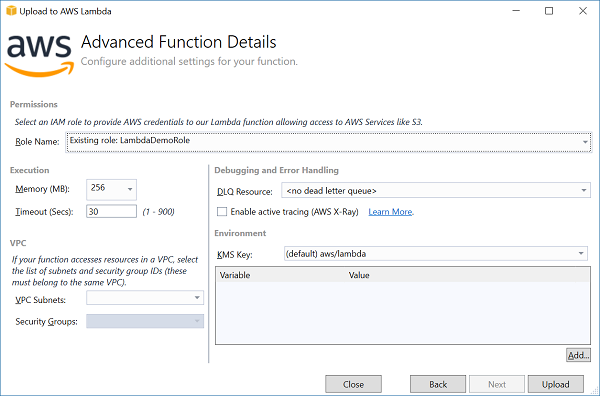
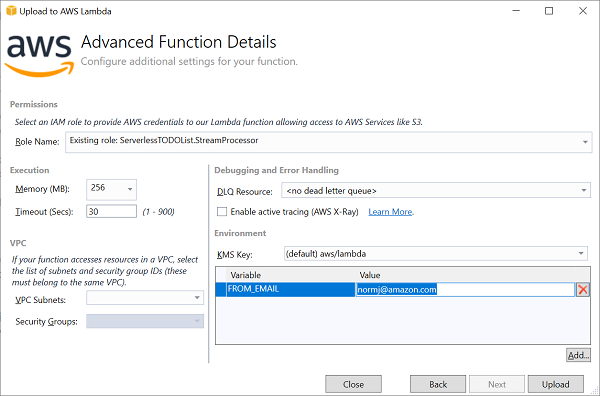
Clean up DynamoDB Streams section

diff --git a/Application/ServerlessTODOList.StreamProcessor/Function.cs b/Application/ServerlessTODOList.StreamProcessor/Function.cs
@@ -26,7 +26,8 @@ namespace ServerlessTODOList.StreamProcessor
 {
     public class Function
     {
-        const string FROM_EMAIL = "normj@amazon.com";
+        const string FROM_EMAIL_ENV_NAME = "FROM_EMAIL";
+        string fromEmail;
 
         DynamoDBContext Context { get; set; }
 
@@ -40,6 +41,13 @@ namespace ServerlessTODOList.StreamProcessor
             });
 
             this.SESClient = new AmazonSimpleEmailServiceClient(Amazon.RegionEndpoint.USEast1);
+
+            if(string.IsNullOrEmpty(Environment.GetEnvironmentVariable(FROM_EMAIL_ENV_NAME)))
+            {
+                throw new Exception($"The {FROM_EMAIL_ENV_NAME} environment variable to the email address that will be the from address for the emails.");
+            }
+
+            fromEmail = Environment.GetEnvironmentVariable(FROM_EMAIL_ENV_NAME);
         }
 
         public async Task FunctionHandler(DynamoDBEvent dynamoEvent, ILambdaContext context)
@@ -63,7 +71,7 @@ namespace ServerlessTODOList.StreamProcessor
 
                         var request = new SendEmailRequest
                         {
-                            Source = FROM_EMAIL,
+                            Source = fromEmail,
                             Destination = new Destination { ToAddresses = new List<string> { kvp.Key } },
                             Message = new Message
                             {
@@ -76,7 +84,7 @@ namespace ServerlessTODOList.StreamProcessor
                         };
 
                         await this.SESClient.SendEmailAsync(request);
-                        context.Logger.LogLine($"Sent email to {request.Destination.ToAddresses[0]}");
+                        context.Logger.LogLine($"Sent email to {request.Destination.ToAddresses[0]} from {request.Source}");
                         context.Logger.LogLine(emailBody);
                     }
                 }

diff --git a/DotnetTryMaterial/StreamProcessing/LookAtLambdaFunction.md b/DotnetTryMaterial/StreamProcessing/LookAtLambdaFunction.md
@@ -3,50 +3,87 @@
 In our application's solution the **ServerlessTODOList.StreamProcessor** project contains the .NET Core Lambda function that will respond to events from the stream.
 You can see none of the shard management code is here, we just implement the `foreach` statement.
 
+## Passed in Configuration
+Notice in the constructor **FROM_EMAIL** environment variable is read. This is set during deployment time
+to configure the from address for the emails that are being sent through Simple Email Service.
+
 ```csharp
-public async Task FunctionHandler(DynamoDBEvent dynamoEvent, ILambdaContext context)
+public class Function
 {
-    foreach (var record in dynamoEvent.Records)
+    const string FROM_EMAIL_ENV_NAME = "FROM_EMAIL";
+    string fromEmail;
+
+    DynamoDBContext Context { get; set; }
+
+    IAmazonSimpleEmailService SESClient { get; set; }
+
+    public Function()
     {
-        try
+        this.Context = new DynamoDBContext(new AmazonDynamoDBClient(), new DynamoDBContextConfig
         {
-            context.Logger.LogLine($"Event ID: {record.EventID}");
-            context.Logger.LogLine($"Event Name: {record.EventName}");
+            Conversion = DynamoDBEntryConversion.V2
+        });
 
-            var oldVersion = ConvertToTODOList(record.Dynamodb.OldImage);
-            var newVersion = ConvertToTODOList(record.Dynamodb.NewImage);
+        this.SESClient = new AmazonSimpleEmailServiceClient(Amazon.RegionEndpoint.USEast1);
 
-            var emailsToTasks = CompareVersions(oldVersion, newVersion);
-            foreach (var kvp in emailsToTasks)
+        if(string.IsNullOrEmpty(Environment.GetEnvironmentVariable(FROM_EMAIL_ENV_NAME)))
+        {
+            throw new Exception($"The {FROM_EMAIL_ENV_NAME} environment variable to the email address that will be the from address for the emails.");
+        }
+
+        fromEmail = Environment.GetEnvironmentVariable(FROM_EMAIL_ENV_NAME);
+    }
+
+    public async Task FunctionHandler(DynamoDBEvent dynamoEvent, ILambdaContext context)
+    {
+        context.Logger.LogLine($"Beginning to process {dynamoEvent.Records.Count} records...");
+
+        foreach (var record in dynamoEvent.Records)
+        {
+            try
             {
-                var emailBody = CreateEmailBody(kvp.Value);
+                context.Logger.LogLine($"Event ID: {record.EventID}");
+                context.Logger.LogLine($"Event Name: {record.EventName}");
 
-                var request = new SendEmailRequest
+                var oldVersion = ConvertToTODOList(record.Dynamodb.OldImage);
+                var newVersion = ConvertToTODOList(record.Dynamodb.NewImage);
+
+                var emailsToTasks = CompareVersions(oldVersion, newVersion);
+                foreach (var kvp in emailsToTasks)
                 {
-                    Source = FROM_EMAIL,
-                    Destination = new Destination { ToAddresses = new List<string> { kvp.Key } },
-                    Message = new Message
-                    {
-                        Subject = new Content { Data = "New tasks have been assigned to you." },
-                        Body = new Body
-                        {
-                            Text = new Content { Data = emailBody }
-                        }
-                    }
-                };
+                    var emailBody = CreateEmailBody(kvp.Value);
 
-                await this.SESClient.SendEmailAsync(request);
-                context.Logger.LogLine($"Sent email to {request.Destination.ToAddresses[0]}");
-                context.Logger.LogLine(emailBody);
+                    var request = new SendEmailRequest
+                    {
+                        Source = fromEmail,
+                        Destination = new Destination { ToAddresses = new List<string> { kvp.Key } },
+                        Message = new Message
+                        {
+                            Subject = new Content { Data = "New tasks have been assigned to you." },
+                            Body = new Body
+                            {
+                                Text = new Content { Data = emailBody }
+                            }
+                        }
+                    };
+
+                    await this.SESClient.SendEmailAsync(request);
+                    context.Logger.LogLine($"Sent email to {request.Destination.ToAddresses[0]} from {request.Source}");
+                    context.Logger.LogLine(emailBody);
+                }
+            }
+            catch(Exception e)
+            {
+                context.Logger.LogLine($"Error processing record: {e.Message}");
+                context.Logger.LogLine(e.StackTrace);
             }
         }
-        catch(Exception e)
-        {
-            context.Logger.LogLine($"Error processing record: {e.Message}");
-            context.Logger.LogLine(e.StackTrace);
-        }
+
+        context.Logger.LogLine("Stream processing complete.");
     }
-}
+
+ ...
+
 ```
 
 <!-- Generated Navigation -->

diff --git a/DotnetTryMaterial/StreamProcessing/DeployLambdaFunction.md b/DotnetTryMaterial/StreamProcessing/DeployLambdaFunction.md
@@ -45,9 +45,15 @@ the **Amazon.Lambda.Tools** .NET Core global tool.
 
 ![Lambda Wizard Page 2](./images/LambdaWizardPage2.png)
 
-### IAM Role
-The only required field that must be set is the IAM role that you want to use to 
+### IAM Role (Required)
+The IAM role that you want to use to 
 provide AWS credentials to the Lambda function.
+
+### Environment (Required for Tutorial)
+Configuration values can be set as environment variables for the Lambda function. For our Lambda function the **FROM_EMAIL** variable must be set
+to the address that the email will be sent from._
+
+
 
 ### Memory
 This controls how much memory will be allocated to Lambda function while it is processing an event. The amount of memory you allocate also controls
@@ -65,8 +71,6 @@ permissions are required for the IAM role to create the ENI. Check out the Lambd
 ### DLQ Resource
 Dead Letter Queue (DLQ) can be either an SQS queue or SNS Topic. When a Lambda function throws an unhandled exception while processing an event Lambda will retry the event a few times. If the function still fails Lambda will send the event to the DLQ if one is assigned. This can be useful troubleshooting and debugging failed events.
 
-### Environment
-Configuration values can be set as environment variables for the Lambda function.
 
 ## Push Upload
 
@@ -89,8 +93,11 @@ to create the Lambda function. The only values that need to set are the Lambda f
 To deploy the function execute the command from the directory of **ServerlessTODOList.StreamProcessor** execute the following command.
 
 ```
-dotnet lambda deploy-function ServerlessTODOListStreamProcessor --function-role <iam-role-name>
+dotnet lambda deploy-function ServerlessTODOListStreamProcessor --environment-variable FROM_EMAIL=<from email address> --function-role <iam-role-name>
 ```
+
+**Notice** the FROM_EMAIL environment variable is set with the `--environment-variable` switch. The format of this switch is 
+`<env-name1>=<env-value1>;<env-name2>=<env-name2>`.
 
 
 
